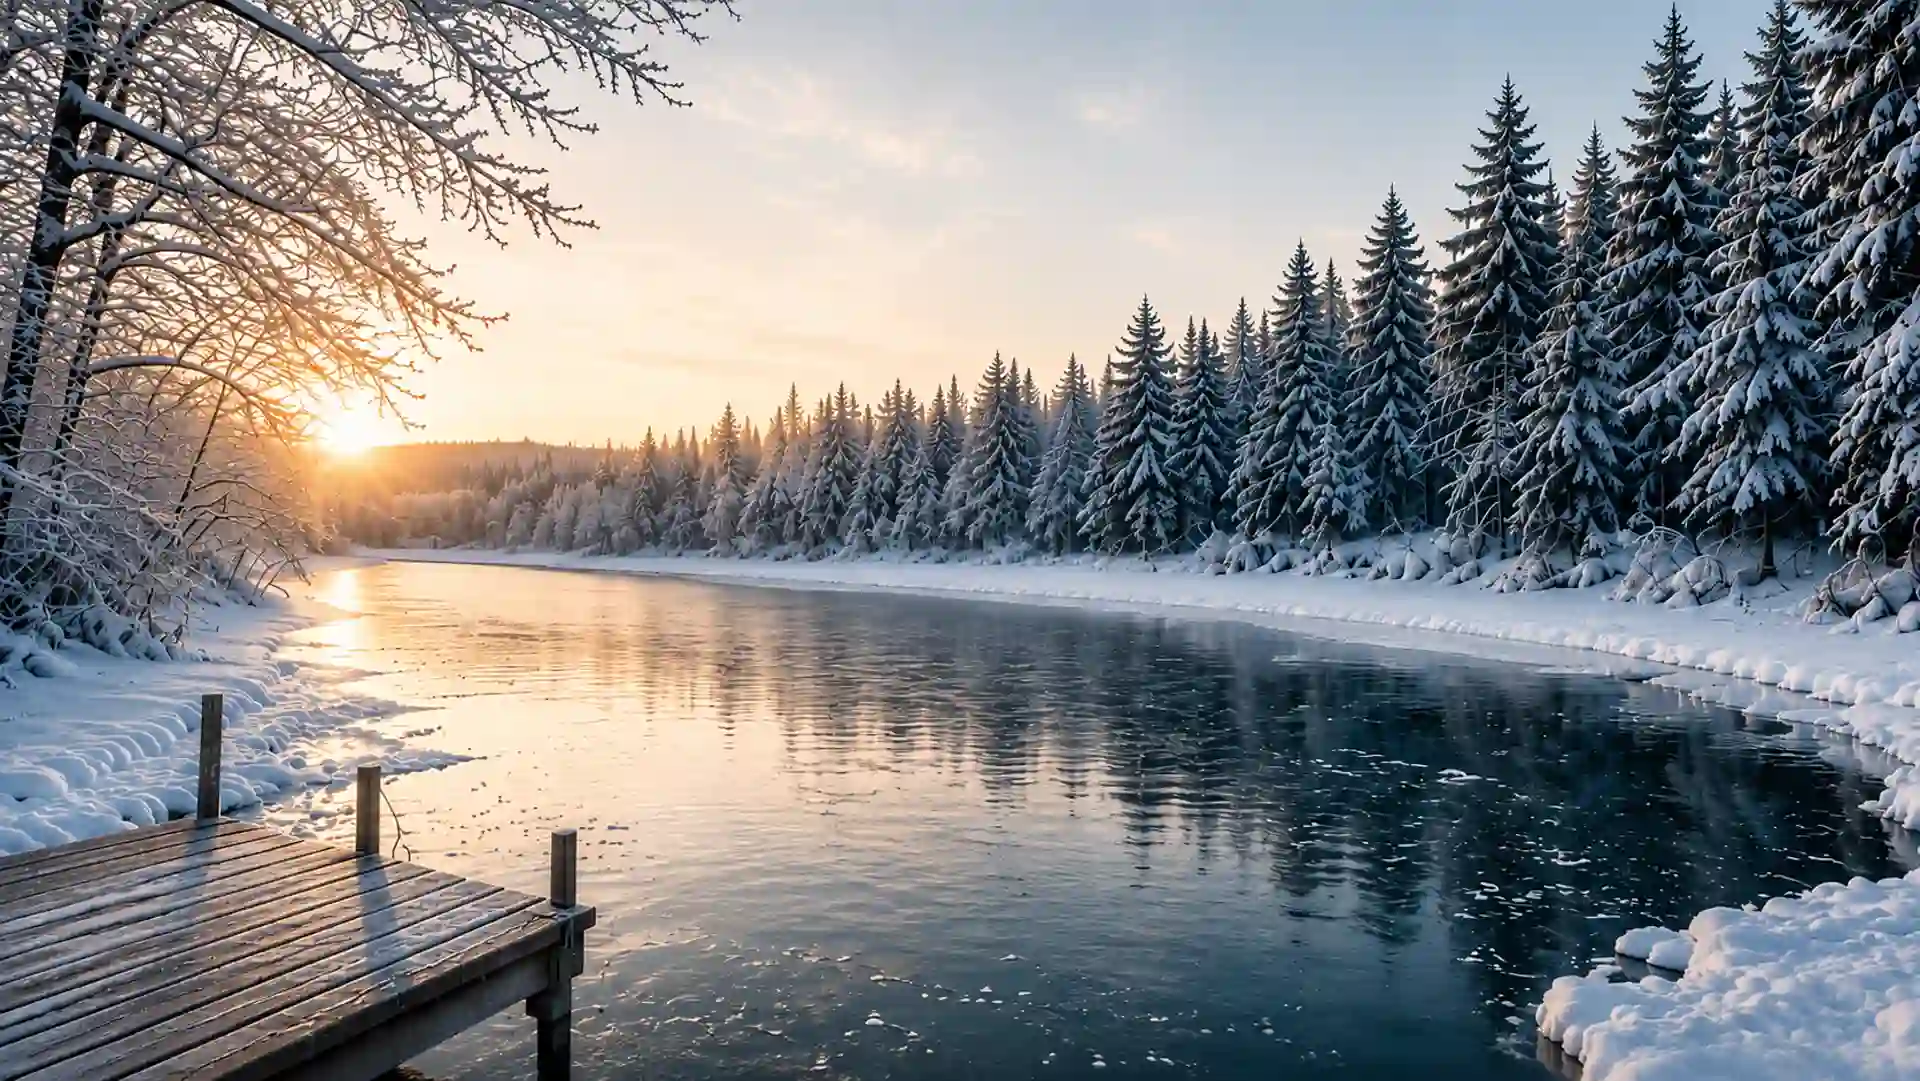
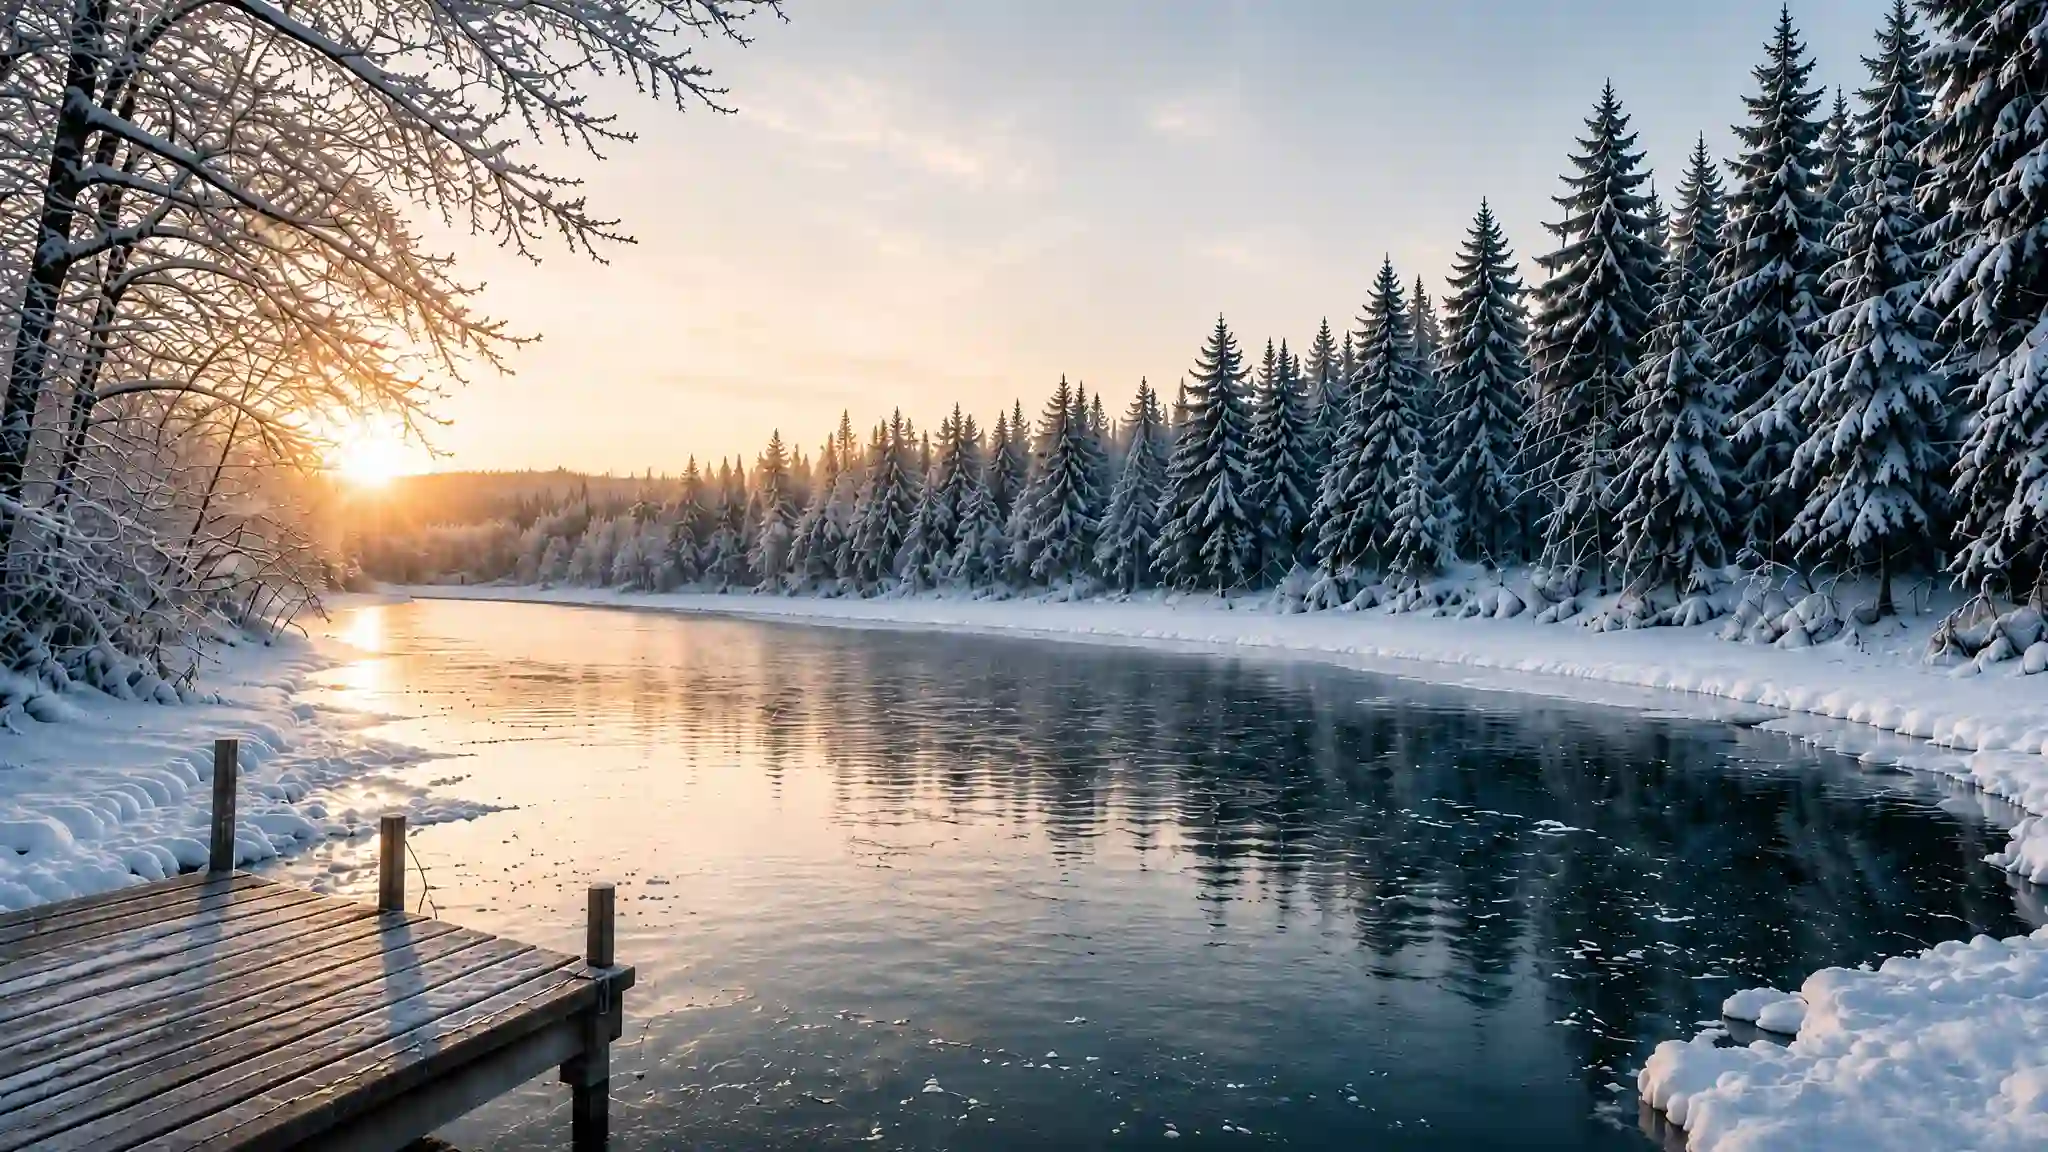
fix(stage1): фон ПК 2K, круглый логотип с залитой А, лого крупнее

diff --git a/public/index.html b/public/index.html
@@ -10,7 +10,8 @@
   <link rel="icon" type="image/webp" href="/assets/img/logo.webp" />
   <link rel="preload" href="/assets/fonts/oswald-v57-cyrillic_latin-700.woff2" as="font" type="font/woff2" crossorigin />
   <link rel="preload" href="/assets/fonts/inter-v20-cyrillic_latin-regular.woff2" as="font" type="font/woff2" crossorigin />
-  <link rel="preload" as="image" href="/assets/img/bg-desktop.webp" />
+  <link rel="preload" as="image" href="/assets/img/bg-desktop.webp" media="(min-width: 761px)" />
+  <link rel="preload" as="image" href="/assets/img/bg-mobile.webp" media="(max-width: 760px)" />
   <link rel="stylesheet" href="/css/styles.css" />
 </head>
 <body>
@@ -18,7 +19,7 @@
   <header class="hero">
     <div class="hero__overlay"></div>
     <div class="hero__inner">
-      <img class="hero__logo" src="/assets/img/logo.webp" width="170" height="170"
+      <img class="hero__logo" src="/assets/img/logo.webp" width="250" height="250"
            alt="Клан Толкай Вода — Слава моржам" />
       <h1 class="hero__title">Радио Толкай Вода</h1>
 

diff --git a/public/css/styles.css b/public/css/styles.css
@@ -102,7 +102,7 @@ img { max-width: 100%; display: block; }
 .hero__inner { position: relative; z-index: 1; display: flex; flex-direction: column; align-items: center; }
 
 .hero__logo {
-  width: clamp(120px, 22vw, 170px);
+  width: clamp(160px, 30vw, 250px);
   height: auto;
   filter: drop-shadow(0 6px 16px rgba(0,0,0,.35));
 }